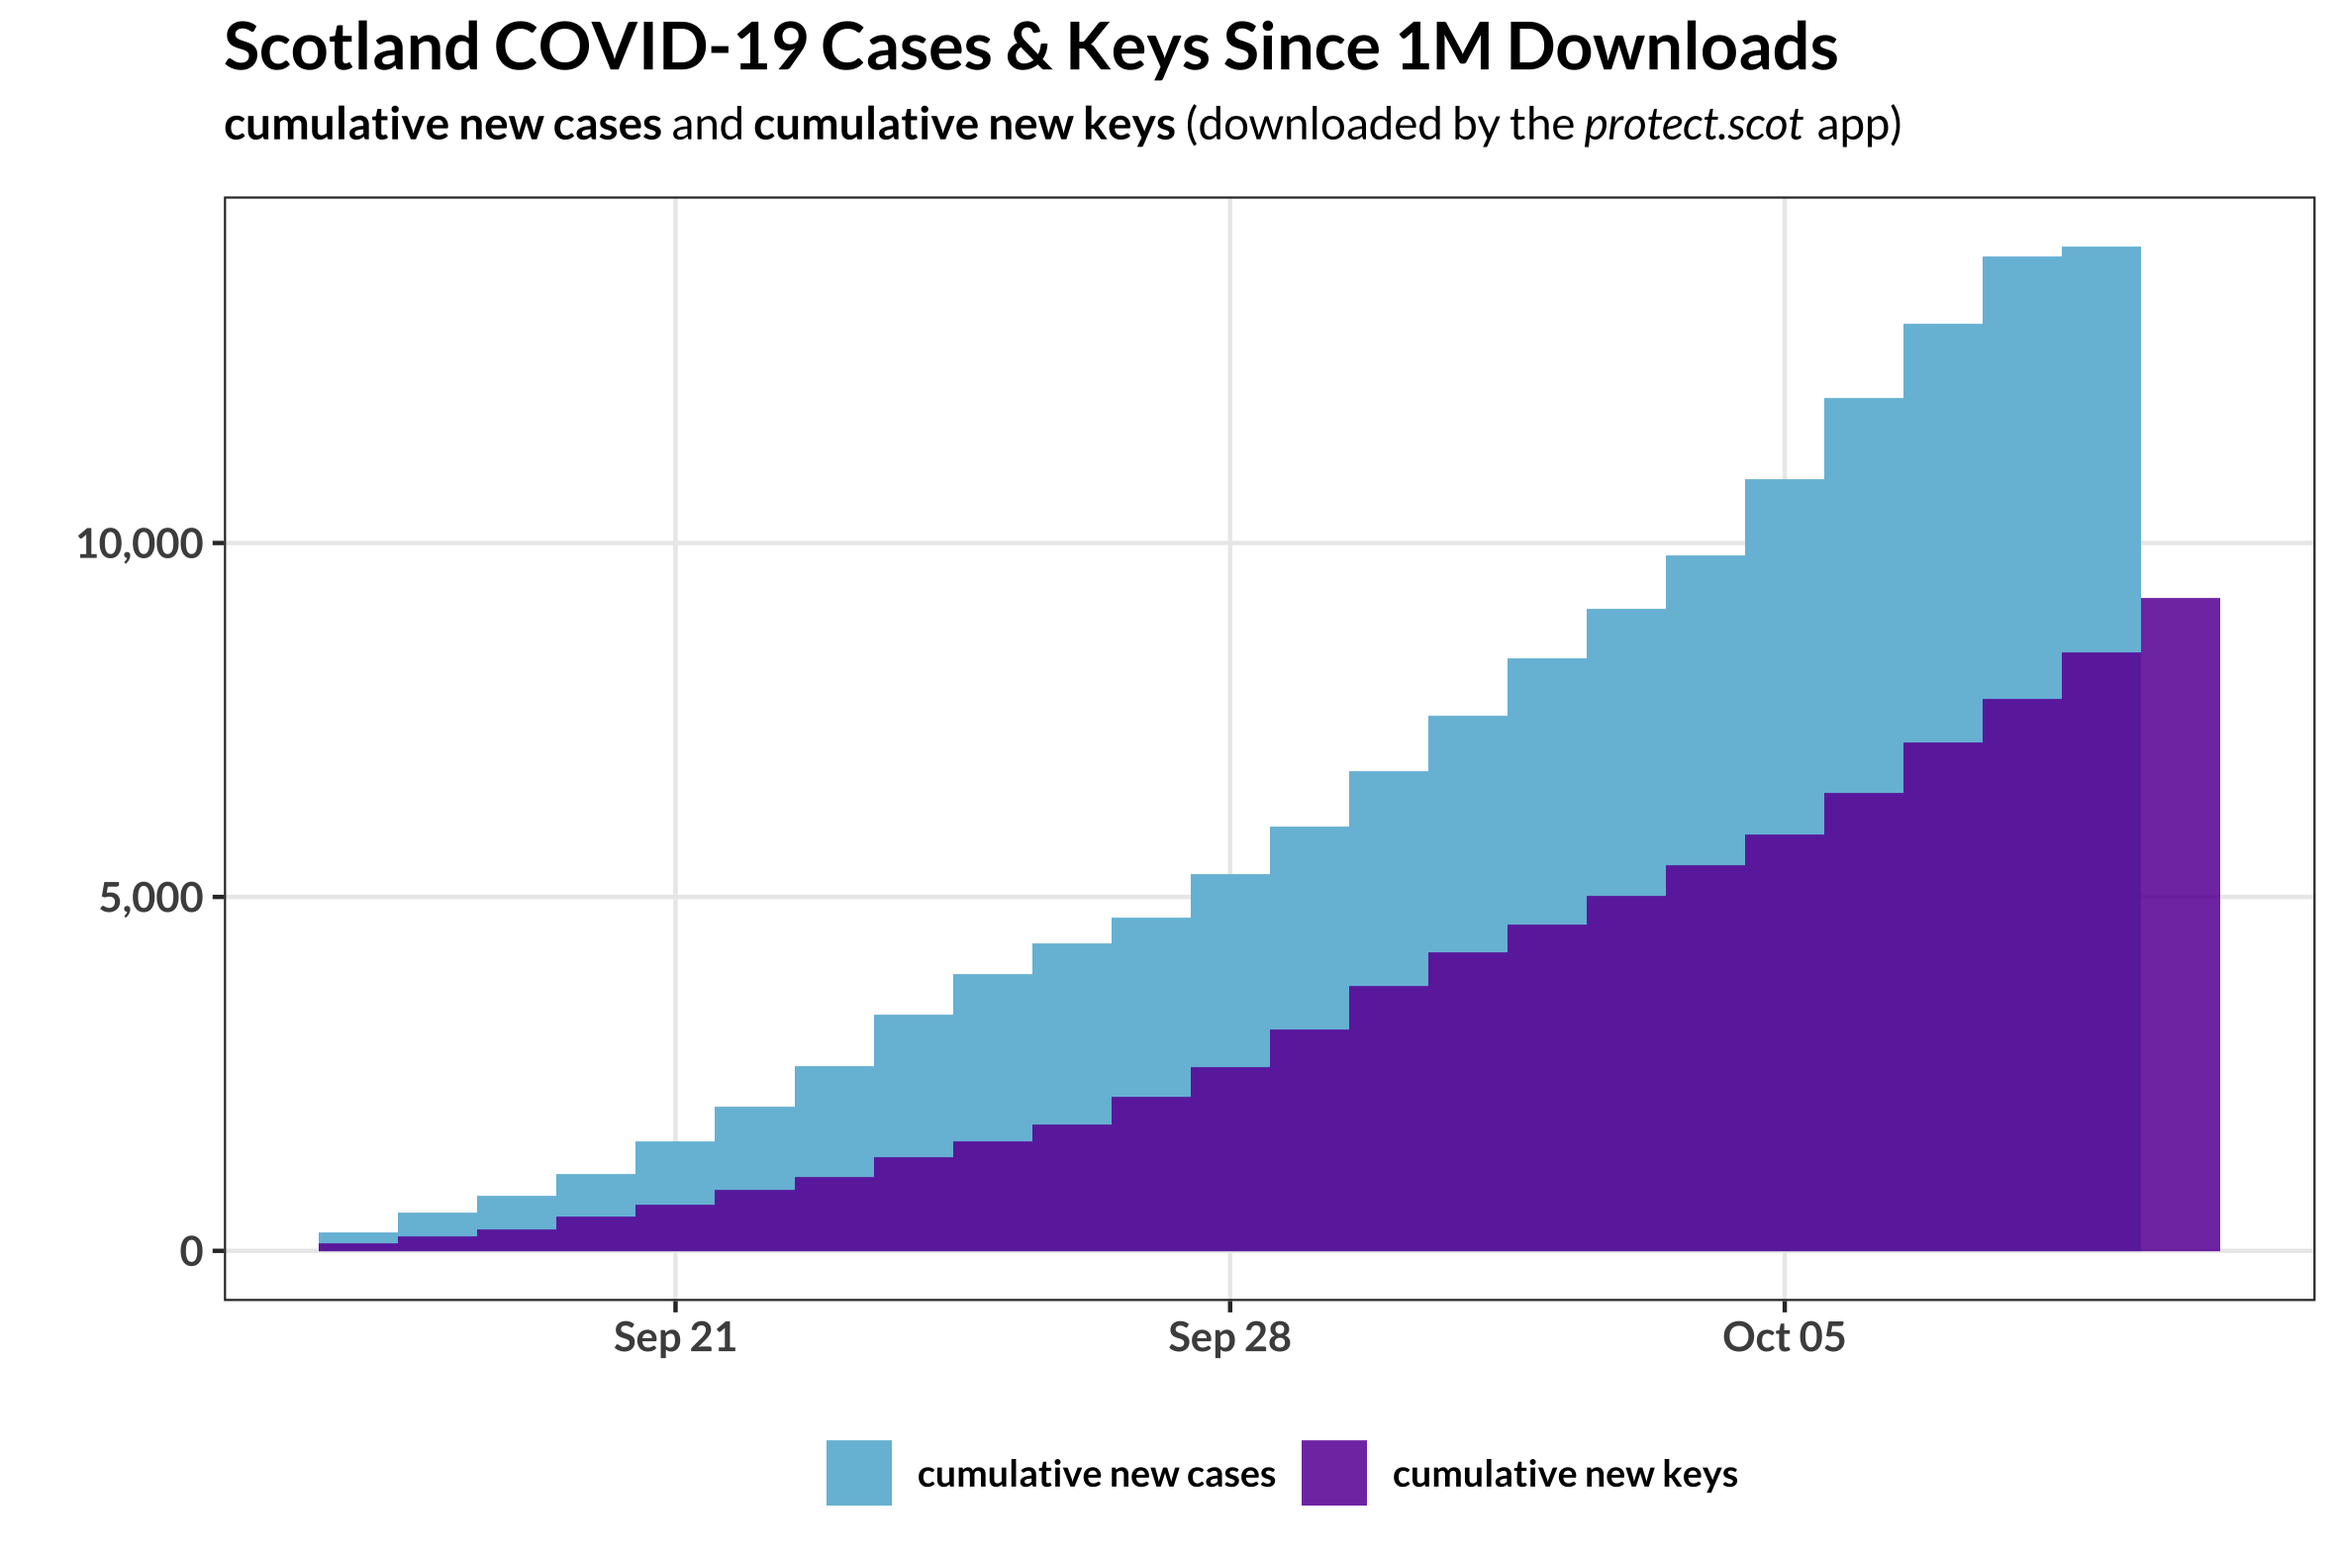
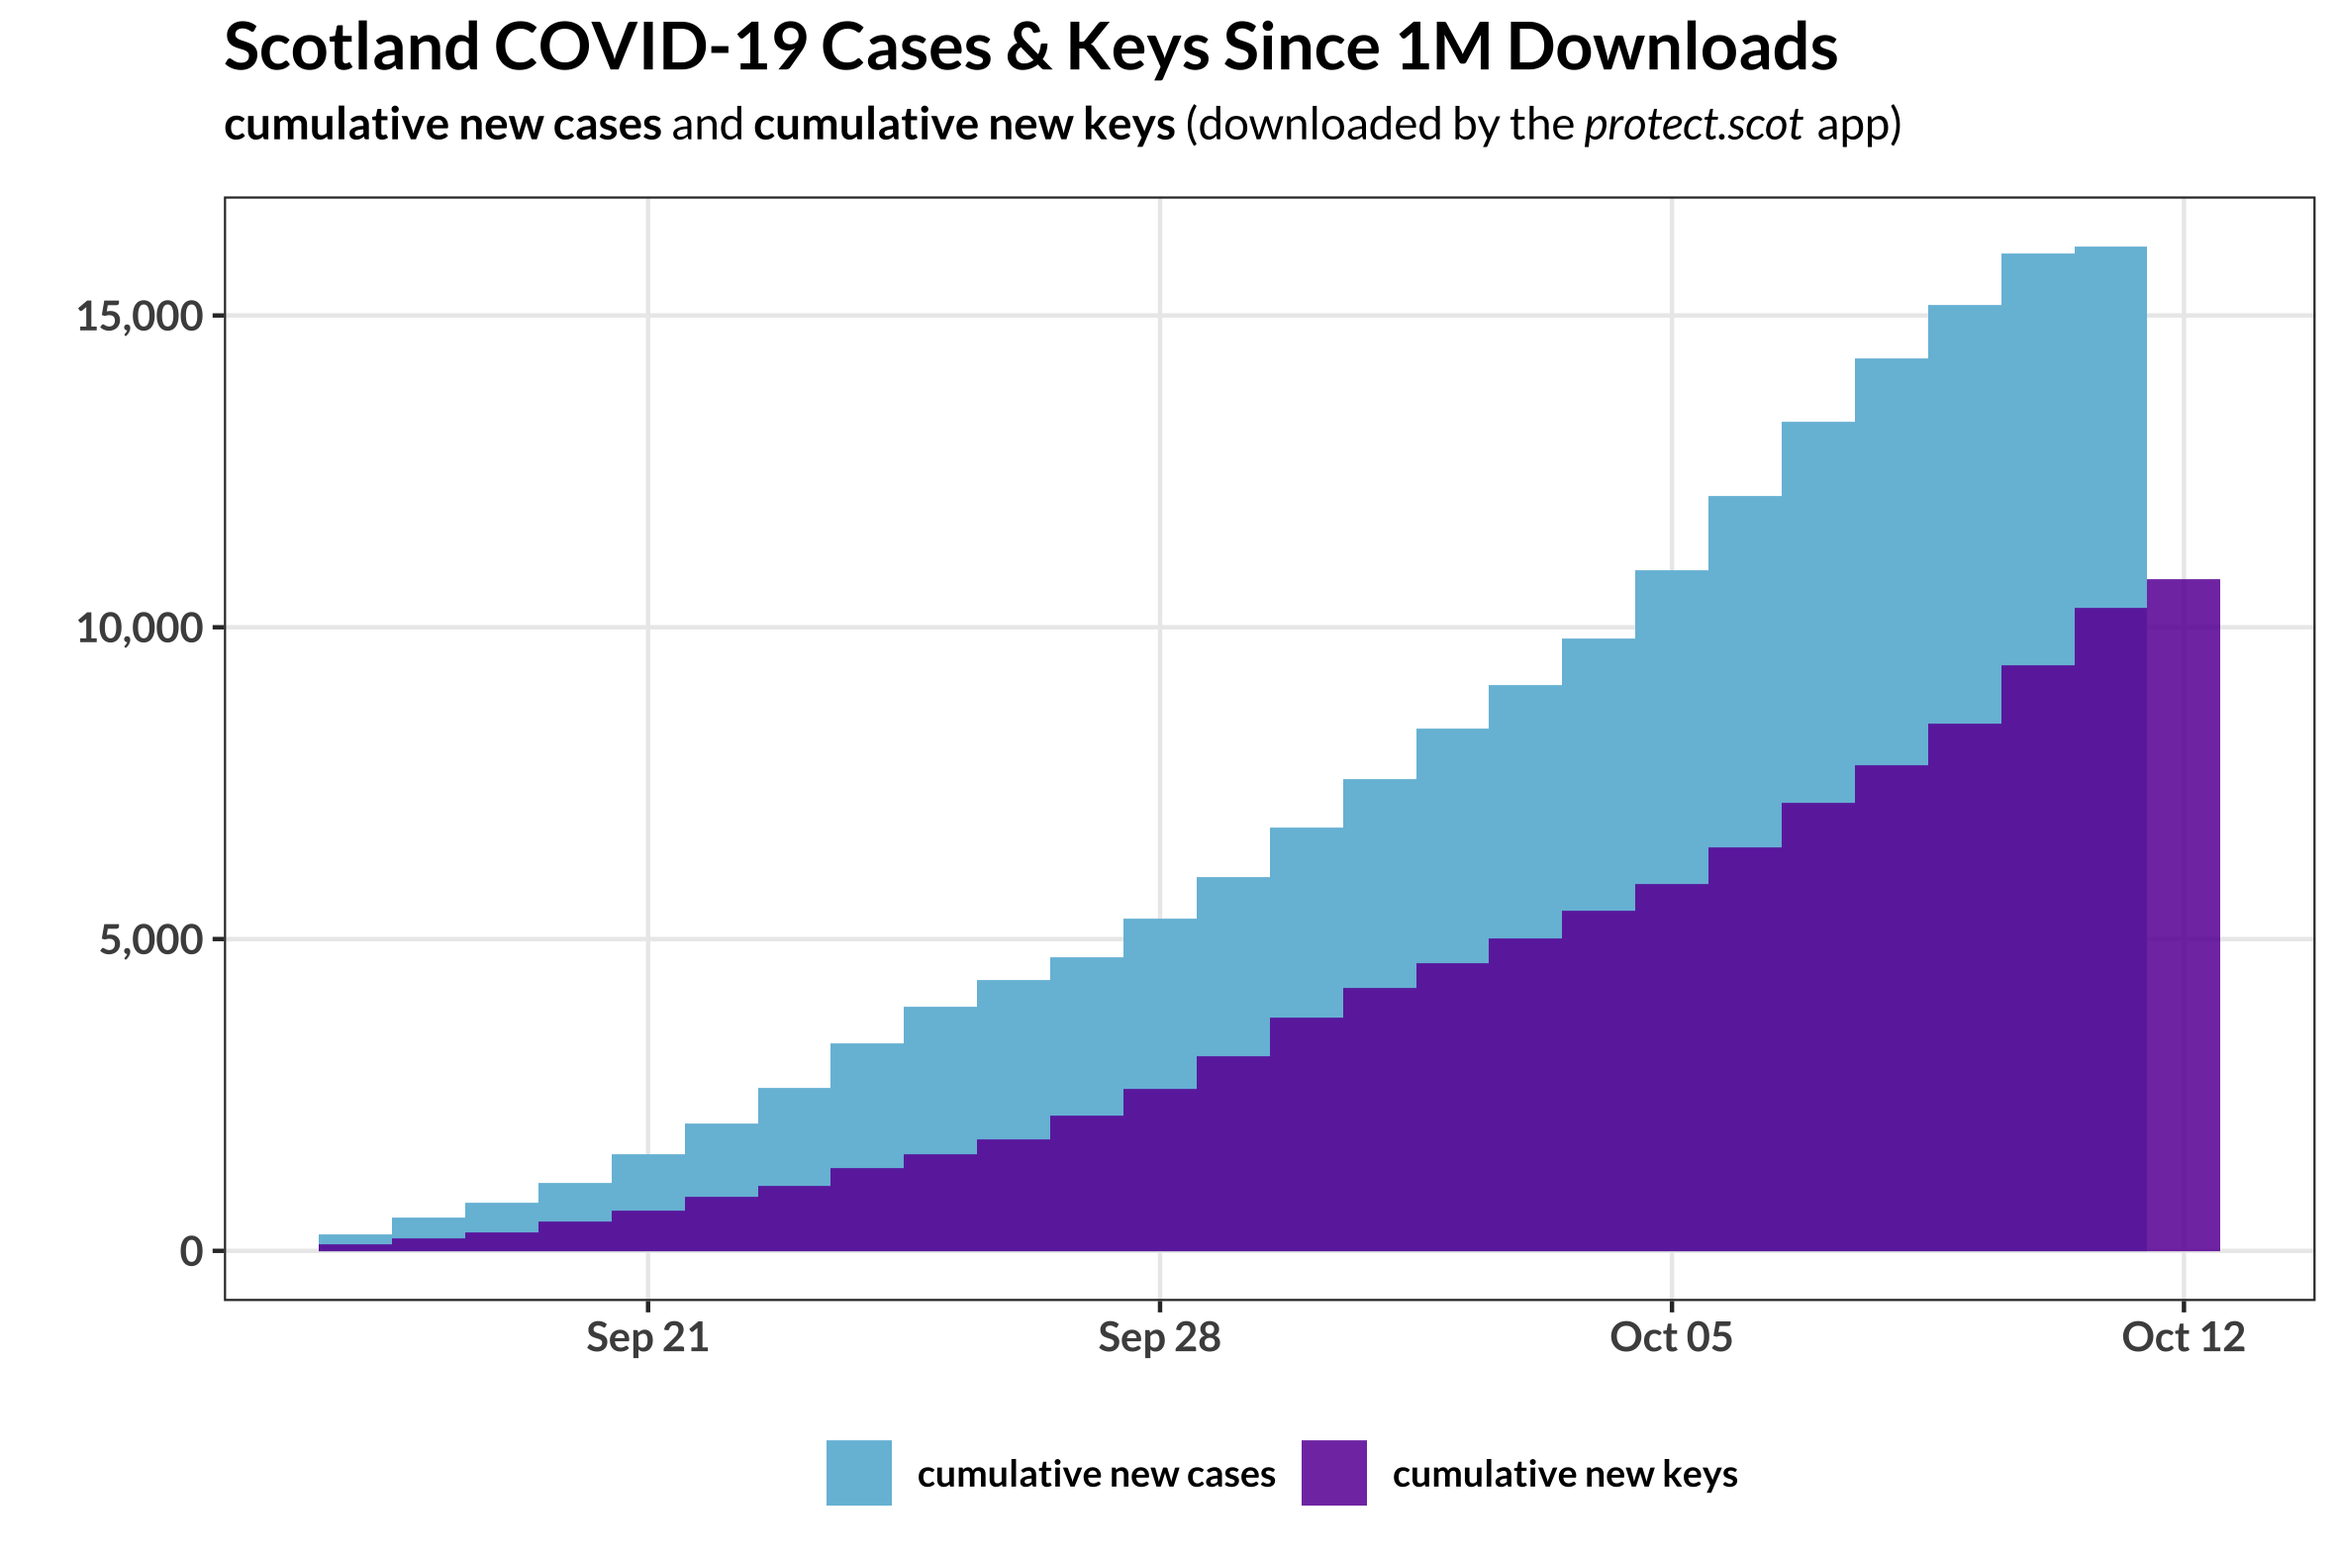
12/10 updates

diff --git a/README.md b/README.md
@@ -35,7 +35,7 @@ Here we can see the daily number of downloaded keys compared to the daily COVID-
 ![](/pics/plot_cases_keys.png)
 
 ## Cumulative Cases / Keys Since September 17th
-To compare the cumulative number of new cases to the cumulative number of new keys, we'll start from September 17th. This was the date the app reached one million downloads, which seems like as good a milestone as any. We can see that more than 50% of the new cases have been registered via the app since then.
+To compare the cumulative number of new cases to the cumulative number of new keys, we'll start from September 17th. This was the date the app reached one million downloads, which seems like as good a milestone as any. We can see that more than 55% of the new cases have been registered via the app since then.
 
 ![](/pics/plot_cum_cases_keys_sep17.png)
 
